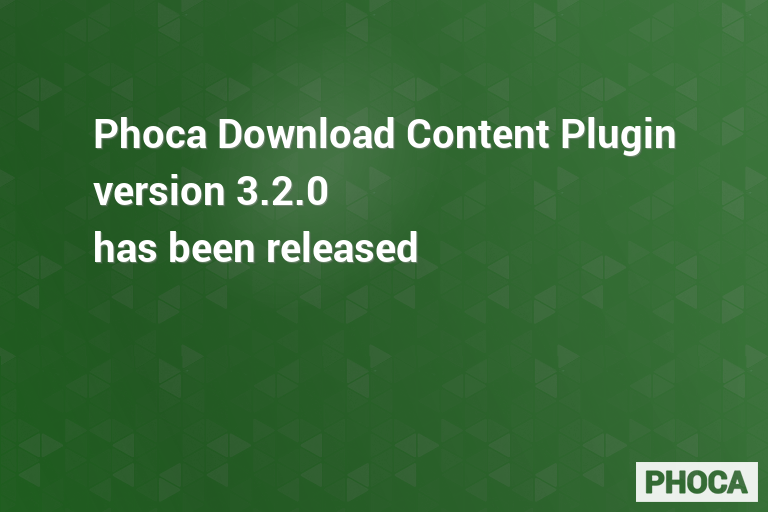
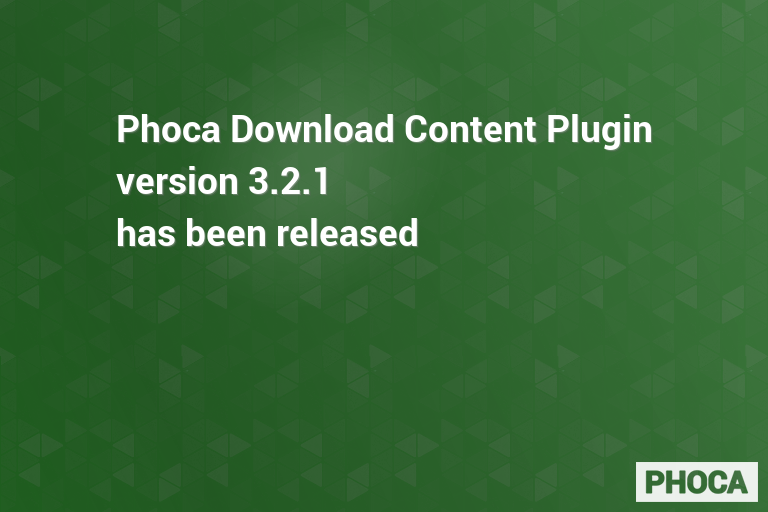
3.2.1
3.2.1

Changed region(s): [[0.125, 0.2188, 0.9062, 0.4062], [0.125, 0.4062, 0.5625, 0.5312]]

diff --git a/phocadownload.php b/phocadownload.php
@@ -9,7 +9,7 @@
 defined( '_JEXEC' ) or die( 'Restricted access' );
 
 jimport( 'joomla.plugin.plugin' );
-
+use Joomla\CMS\HTML\HTMLHelper;
 
 
 class plgContentPhocaDownload extends JPlugin
@@ -80,8 +80,8 @@ class plgContentPhocaDownload extends JPlugin
 		// Start if count_matches
 		if ($count_matches != 0) {
 
-			JHTML::stylesheet( 'media/com_phocadownload/css/main/phocadownload.css' );
-			JHTML::stylesheet( 'media/plg_content_phocadownload/css/phocadownload.css' );
+			HTMLHelper::_('stylesheet', 'media/com_phocadownload/css/main/phocadownload.css', array('version' => 'auto'));
+			HTMLHelper::_('stylesheet', 'media/plg_content_phocadownload/css/phocadownload.css', array('version' => 'auto'));
 
 			$l = new PhocaDownloadLayout();
 
@@ -395,7 +395,7 @@ class plgContentPhocaDownload extends JPlugin
 										$canPlay	= PhocaDownloadFile::canPlay($item->filename_play);
 										if ($canPlay) {
 											$tmpl['playfilewithpath']	= $filePath . $item->filename_play;
-											$tmpl['playerpath']			= JURI::base().'components/com_phocadownload/assets/flowplayer/';
+											$tmpl['playerpath']			= JURI::base().'media/com_phocadownload/js/flowplayer/';
 										} else {
 											$output .= JText::_('PLG_CONTENT_PHOCADOWNLOAD_NO_CORRECT_FILE_FOR_PLAYING_FOUND');
 											$play = 0;
@@ -522,7 +522,7 @@ class plgContentPhocaDownload extends JPlugin
 											}
 
 										} else {
-											JHTML::_('behavior.modal', 'a.modal-button');
+											Joomla\CMS\HTML\HTMLHelper::_('behavior.modal', 'a.modal-button');
 											$document->addCustomTag( "<style type=\"text/css\"> \n"
 										." #sbox-window.phocadownloadplaywindow   {background-color:#fff;padding:2px} \n"
 										." #sbox-overlay.phocadownloadplayoverlay  {background-color:#000;} \n"
@@ -620,7 +620,7 @@ class plgContentPhocaDownload extends JPlugin
 												$buttonPr->set('methodname', 'js-button');
 												$buttonPr->set('options', "window.open(this.href,'win2','width=".$windowWidthPr.",height=".$windowHeightPr.",scrollbars=yes,menubar=no,resizable=yes'); return false;");
 											} else {
-												JHTML::_('behavior.modal', 'a.modal-button');
+												Joomla\CMS\HTML\HTMLHelper::_('behavior.modal', 'a.modal-button');
 												$document->addCustomTag( "<style type=\"text/css\"> \n"
 											." #sbox-window.phocadownloadpreviewwindow   {background-color:#fff;padding:2px} \n"
 											." #sbox-overlay.phocadownloadpreviewoverlay  {background-color:#000;} \n"

diff --git a/README.MD b/README.MD
@@ -61,7 +61,7 @@ Phoca Download Content plugin is a Joomla! plugin which displays:
 
 ## Version
 
-3.2.0
+3.2.1
 
 
 
